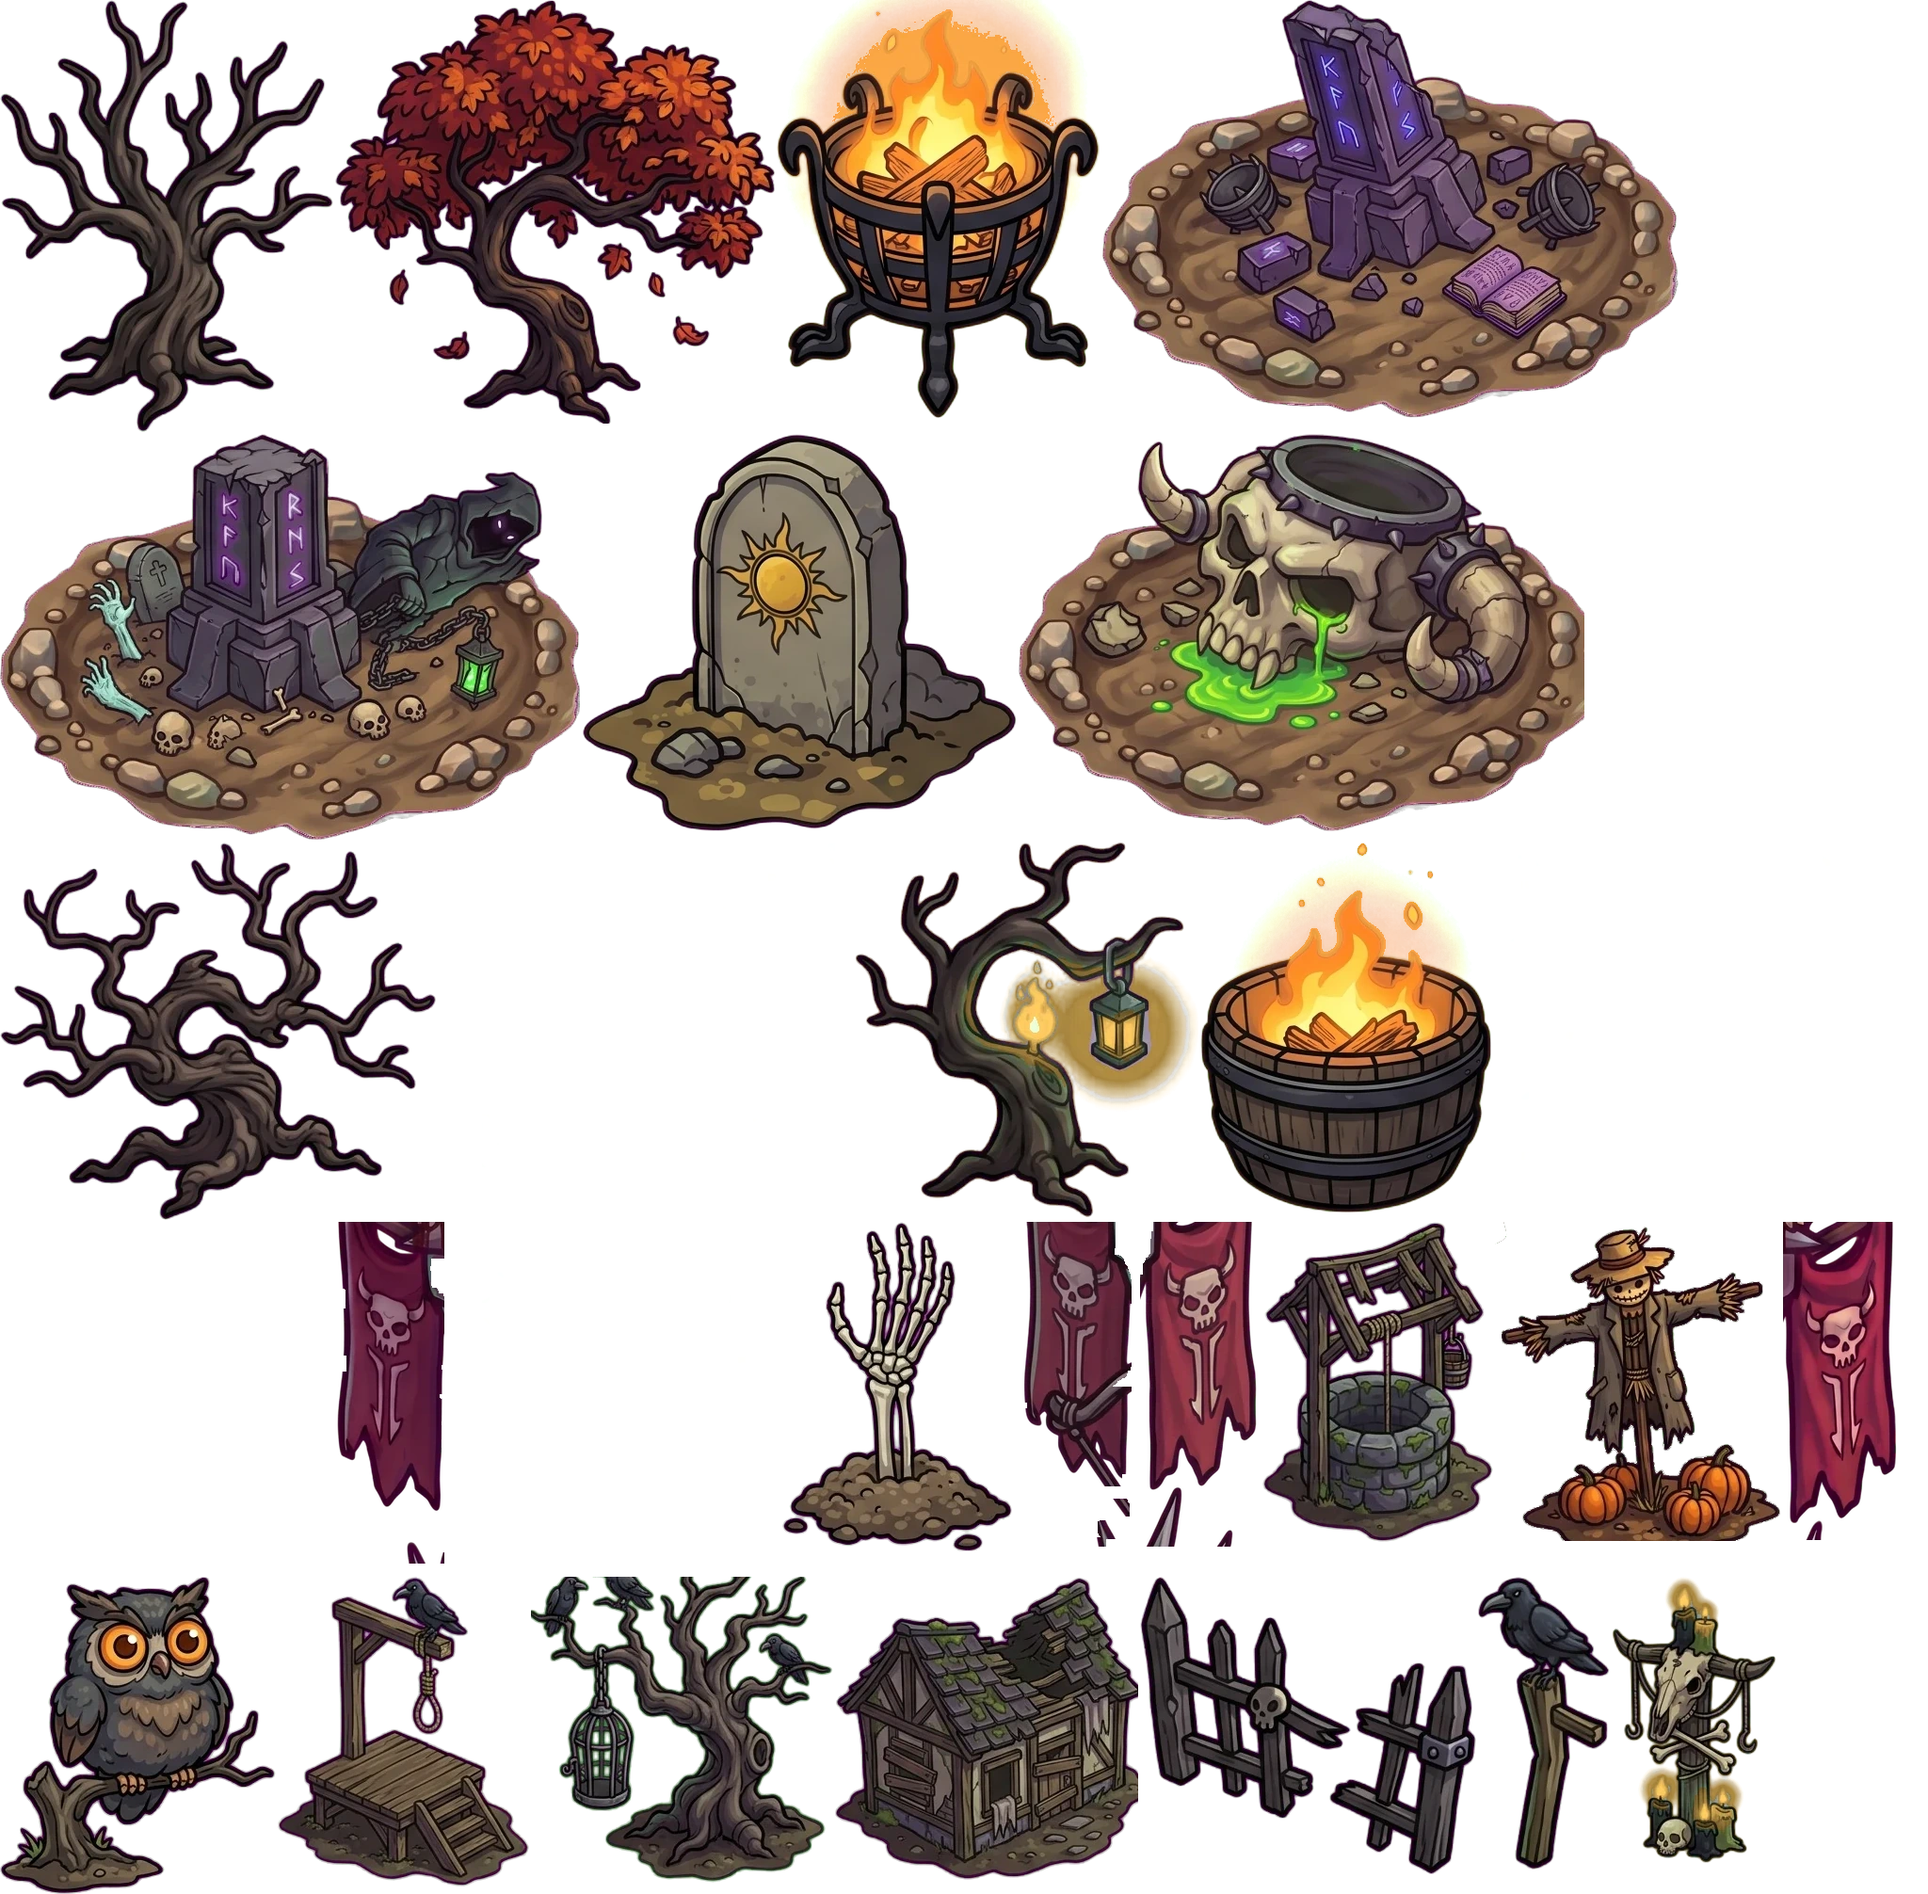
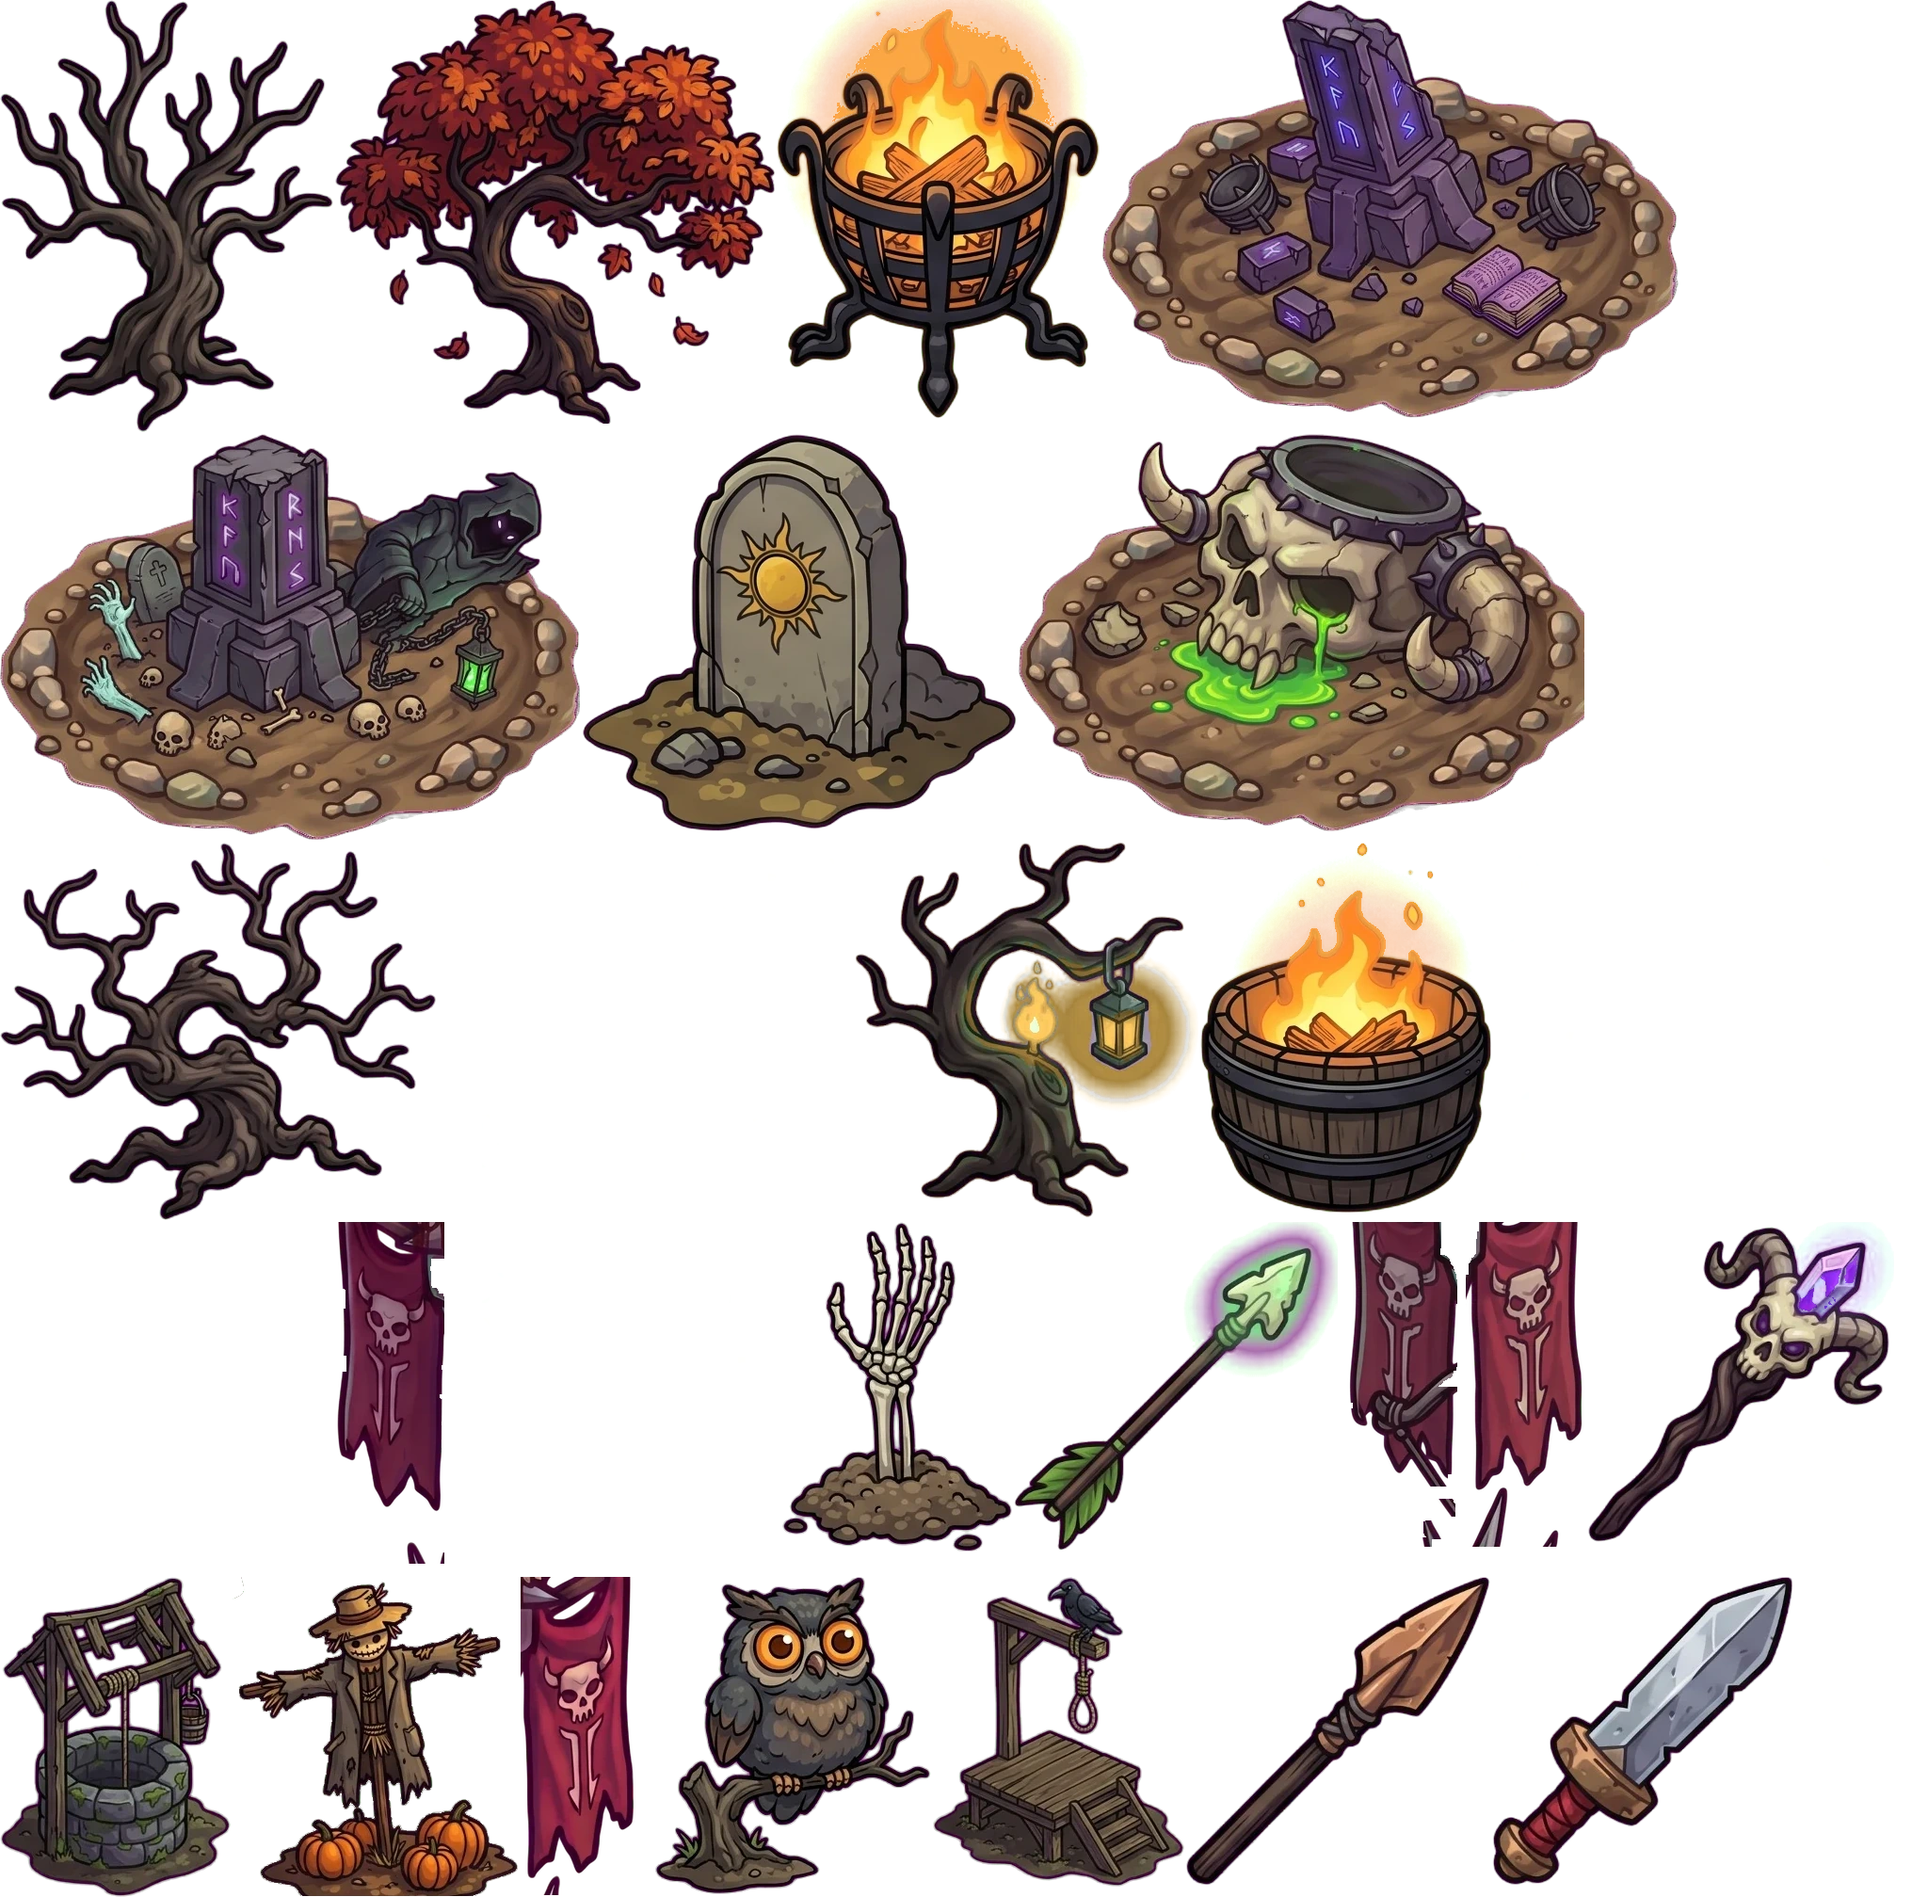
Eşya ve dükkân simgeleri Gemini çizimi (ico_*: kılıç, mızrak, asa, ok, hançer, zırh, yüzük, tılsım, bomba, kum saati, çay, kese, ruh kristali); kodla çizilenlerin yerine, en-boy oranı korunur (yayın 596)

diff --git a/sinir-kalesi/js/game.js b/sinir-kalesi/js/game.js
@@ -3385,8 +3385,10 @@ const GEAR_PAINT = {
 };
 function drawGearIcon(it, x, y, r, rot = 0) {
   const k = typeof it === 'string' ? it : gearIcon(it), im = icoImg('gear_' + k) || iconArt('gear_' + k, GEAR_PAINT[k]);
-  ctx.save(); ctx.translate(x, y); if (rot) ctx.rotate(rot); ctx.drawImage(im, -r * 1.2, -r * 1.2, r * 2.4, r * 2.4); ctx.restore();
+  ctx.save(); ctx.translate(x, y); if (rot) ctx.rotate(rot); icoFit(im, 0, 0, r); ctx.restore();
 }
+// 15 Eki: Gemini simgeleri (ico_*, nm9_esya_simgeleri.jpg) kare değil: en-boy oranı korunarak r * 2,4'lük kareye sığar
+function icoFit(im, x, y, r) { const S = r * 2.4, k = S / Math.max(im.width, im.height), w = im.width * k, h = im.height * k; ctx.drawImage(im, x - w / 2, y - h / 2, w, h); }
 // kristal simgesi: mor-yeşil altıgen taş
 // 15 Eki (Caner: kristal, kese ve kum saati daha güzel çizilsin): ayrıntılı simgeler bir kez 192 px tuvale çizilir (ICON_C), sonra ölçeklenip basılır.
 // Gemini kotası açılınca bunlar boyalı görsellerle değiştirilebilir (aynı ad: img/ico_<ad>.webp varsa o kullanılır).
@@ -3397,8 +3399,8 @@ function iconArt(name, paint) {
   g.translate(S / 2, S / 2); g.lineJoin = 'round'; g.lineCap = 'round'; paint(g, S * 0.4);
   return (ICON_C[name] = c);
 }
-const icoImg = (name) => spr('ico_' + name);
-function drawIconArt(name, paint, x, y, r) { const im = icoImg(name) || iconArt(name, paint); ctx.drawImage(im, x - r * 1.2, y - r * 1.2, r * 2.4, r * 2.4); }
+const icoImg = (name) => spr('ico_' + (name === 'kristal' ? 'crystal' : name));
+function drawIconArt(name, paint, x, y, r) { const im = icoImg(name) || iconArt(name, paint); icoFit(im, x, y, r); }
 // ruh kristali: yedi yüzlü taş, yüzeyler ayrı tonlarda, içinde yeşil ruh ışığı, kenar parıltıları ve yıldız pırıltısı
 function paintCrystal(g, R) {
   const glowR = g.createRadialGradient(0, 0, R * 0.2, 0, 0, R * 1.15); glowR.addColorStop(0, 'rgba(190,120,255,0.55)'); glowR.addColorStop(1, 'rgba(190,120,255,0)');
@@ -3492,6 +3494,7 @@ function drawCrystalOld(x, y, r) {
 }
 // eşya simgeleri (kodla): kemik bombası, kum saati, çay fincanı, kese
 function drawItemIcon(id, x, y, r) {
+  if ((id === 'bomb' || id === 'tea') && icoImg(id)) { icoFit(icoImg(id), x, y, r * 1.05); return; } // 15 Eki: Gemini simgesi
   if (id === 'purse') { drawIconArt('kese', paintPurse, x, y, r * 1.1); return; }
   if (id === 'freeze') { drawIconArt('kumsaati', paintHourglass, x, y, r * 1.1); return; }
   ctx.save(); ctx.translate(x, y); const k = r / 20; ctx.scale(k, k); ctx.lineJoin = 'round'; ctx.lineCap = 'round';

diff --git a/sinir-kalesi/index.html b/sinir-kalesi/index.html
@@ -17,7 +17,7 @@
 <canvas id="game" aria-label="Sınır Kalesi oyun alanı"></canvas>
 <script>
   // Sürüm damgası: her yayında artırılır; tarayıcı eski önbellek kopyasını kullanmaz (js ve görseller).
-  window.SURUM = '595';
+  window.SURUM = '596';
   // dil: kayıtlı seçim (yoksa Türkçe); tr/en dışındakiler için çeviri sözlüğü dil.js'ten önce yüklenir
   window.__dilYukle = (function () {
     var l = null; try { l = localStorage.getItem('sinirKalesi.lang'); } catch (e) {}

diff --git a/sinir-kalesi/yayin.html b/sinir-kalesi/yayin.html
@@ -11,7 +11,7 @@
 <canvas id="game" aria-label="Sınır Kalesi oyun alanı"></canvas>
 <script>
   // Sürüm damgası: her yayında artırılır; tarayıcı eski önbellek kopyasını kullanmaz (js ve görseller).
-  window.SURUM = '595';
+  window.SURUM = '596';
   // dil: kayıtlı seçim (yoksa Türkçe); tr/en dışındakiler için çeviri sözlüğü dil.js'ten önce yüklenir
   window.__dilYukle = (function () {
     var l = null; try { l = localStorage.getItem('sinirKalesi.lang'); } catch (e) {}

diff --git a/varliklar/nm_isle.py b/varliklar/nm_isle.py
@@ -77,6 +77,7 @@ SHEETS = [
     ('nm6_kule_moloz.jpg', ['nm6_rubble_archer', 'nm6_rubble_barracks', 'nm6_rubble_mage2', 'nm6_rubble_mage', 'nm6_rubble_artillery', 'nm6_rubble_altar'], 'decor'),  # 15 Eki: yıkılan kulelerin molozu (Ruh Feneri iki çeşit)
     ('nm7_orman_surpriz.jpg', ['nm7_owl', 'nm7_eyes', 'nm7_ghost', 'nm7_ghost2', 'nm7_bats', 'nm7_frog', 'nm7_shroom', 'nm7_hand', 'nm7_squirrel', 'nm7_cat'], 'decor'),  # 15 Eki: sefer haritası orman sürprizleri
     ('nm8_kemik_duvar_parca.jpg', ['nm8_bw_fang', 'nm8_bw_tooth', 'nm8_bw_stake', None, None, 'nm8_bw_shards', None, None, None, 'nm8_bw_needle'], 'decor'),  # 15 Eki: yeni Kemik Duvarı parçaları (Caner 5'ini seçti)
+    ('nm9_esya_simgeleri.jpg', ['ico_gear_sword', 'ico_gear_spear', 'ico_gear_staff', 'ico_gear_arrow', None, 'ico_gear_dagger', 'ico_gear_armor', 'ico_gear_ring', 'ico_gear_amulet', None, 'ico_bomb', 'ico_kumsaati', 'ico_tea', 'ico_kese', 'ico_crystal'], 'decor'),  # 15 Eki: eşya ve dükkân simgeleri (kodla çizilenlerin yerine)
     ('nm_boss_E.jpg', ['enemy_severus3'], 'unit'),  # 12 Eki: Lanetli Severus (2. sefer finalinin 3. evresi)
     ('nm_boss_D.jpg', ['enemy_hubertus', 'enemy_agnes', 'enemy_lucia', 'enemy_godfrey'], 'unitgrid'),  # 12 Eki: 2. sefer komutanları (Tazı Ustası, Kırbaç Rahibesi, Şeytan Kovucu, Tapınak Komutanı)
     ('nm_boss_C.jpg', ['enemy_gloriosus1', 'enemy_gloriosus2', 'enemy_gloriosus3'], 'unit'),  # 11 Eki: Gloriosus 3 evre (aslanlı altın araba, yayan, Güneş Formu)
@@ -99,11 +100,12 @@ BOXES = {
     'nm6_kule_moloz.jpg': [(40, 75, 610, 572), (675, 75, 1290, 568), (1335, 85, 1965, 562), (35, 610, 668, 1102), (695, 625, 1295, 1108), (1335, 595, 1965, 1102)],
     'nm7_orman_surpriz.jpg': [(25, 28, 322, 368), (382, 22, 712, 298), (822, 45, 1018, 250), (1135, 40, 1318, 248), (782, 278, 1018, 492), (1122, 278, 1322, 488), (60, 505, 292, 745), (400, 368, 652, 722), (762, 512, 1018, 735), (1096, 482, 1348, 745)],
     'nm8_kemik_duvar_parca.jpg': [(80, 40, 375, 528), (485, 40, 765, 528), (870, 28, 1125, 532), (1200, 45, 1565, 520), (1595, 35, 1945, 515), (80, 585, 390, 1068), (505, 605, 765, 1062), (895, 580, 1120, 1068), (1185, 635, 1605, 1062), (1685, 570, 1895, 1072)],
+    'nm9_esya_simgeleri.jpg': [(8, 6, 392, 379), (408, 6, 792, 379), (808, 6, 1192, 379), (1208, 6, 1592, 379), (1608, 6, 1992, 379), (8, 391, 392, 734), (408, 391, 792, 734), (808, 391, 1192, 734), (1208, 391, 1592, 734), (1608, 391, 1992, 734), (8, 746, 392, 1110), (408, 746, 792, 1110), (808, 746, 1192, 1110), (1208, 746, 1592, 1110), (1608, 746, 1992, 1110)],
     'nm_boss_D.jpg': [(0, 0, 1036, 1010), (1036, 0, 2048, 1010), (0, 1010, 1000, 2048), (1000, 1010, 2048, 2048)],  # 2x2 (2048 kare)
 }
 # meta (dünya boyu) çarpanı: 2x çözünürlüklü sayfa, diğer dekor sayfalarıyla aynı ölçekte (ruinK) dursun
 META_K = {'nm4_engizisyon_dekor.jpg': 0.5}
-BOX_EDGE_DROP = {'nm8_kemik_duvar_parca.jpg', 'nm7_orman_surpriz.jpg', 'nm6_kule_moloz.jpg', 'nm5_sefer2_doga.jpg', 'nm_boss_D.jpg', 'nm2_dekor_A.jpg', 'nm3_orman_dekor.jpg', 'nm4_engizisyon_dekor.jpg'}
+BOX_EDGE_DROP = {'nm9_esya_simgeleri.jpg', 'nm8_kemik_duvar_parca.jpg', 'nm7_orman_surpriz.jpg', 'nm6_kule_moloz.jpg', 'nm5_sefer2_doga.jpg', 'nm_boss_D.jpg', 'nm2_dekor_A.jpg', 'nm3_orman_dekor.jpg', 'nm4_engizisyon_dekor.jpg'}
 # renk değiştirme: görselin üstten şu oranlık kısmında yeşil/mor parlak tonlar verilen renk tonuna (derece) döner
 # (10 Eki: Caner hayalet okçuları kırmızı istedi)
 HUE_TOP = {}  # (eski Hayalet Okçular kulesindeki okçuların rengi; yeni kulede okçular ayrı çiziliyor)

diff --git a/varliklar/atlas_kur.py b/varliklar/atlas_kur.py
@@ -12,7 +12,7 @@ ROOT = os.path.dirname(os.path.dirname(os.path.abspath(__file__)))
 IMG = os.path.join(ROOT, 'sinir-kalesi', 'img')
 PAGE, PAD = 2048, 2
 SKIP = re.compile(r'^nm_bwall_')  # 15 Eki: eski Kemik Duvarı (yerine nm8_bw_*), bellekte yer tutmasın
-PICK = re.compile(r'^(nm\d?_|plot$|tower_.+_(arm|front|rune|flag\d|sw\d)$|unit_(archer\d|ghostarcher|ghostxbow|xbow\d)(_\w+)?$)')
+PICK = re.compile(r'^(nm\d?_|ico_|plot$|tower_.+_(arm|front|rune|flag\d|sw\d)$|unit_(archer\d|ghostarcher|ghostxbow|xbow\d)(_\w+)?$)')
 LAZY = re.compile(r'^(enemy|unit|hero)_.+_(walk|walk_on|walk_arka|atk|atk2|atk3|skill|die|idle|run|cast|block)x?$')
 
 
